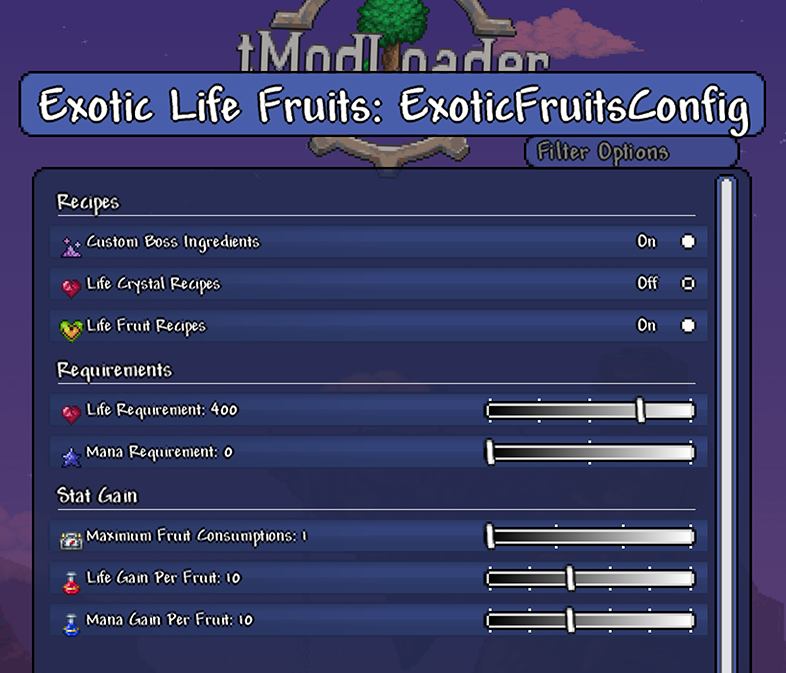
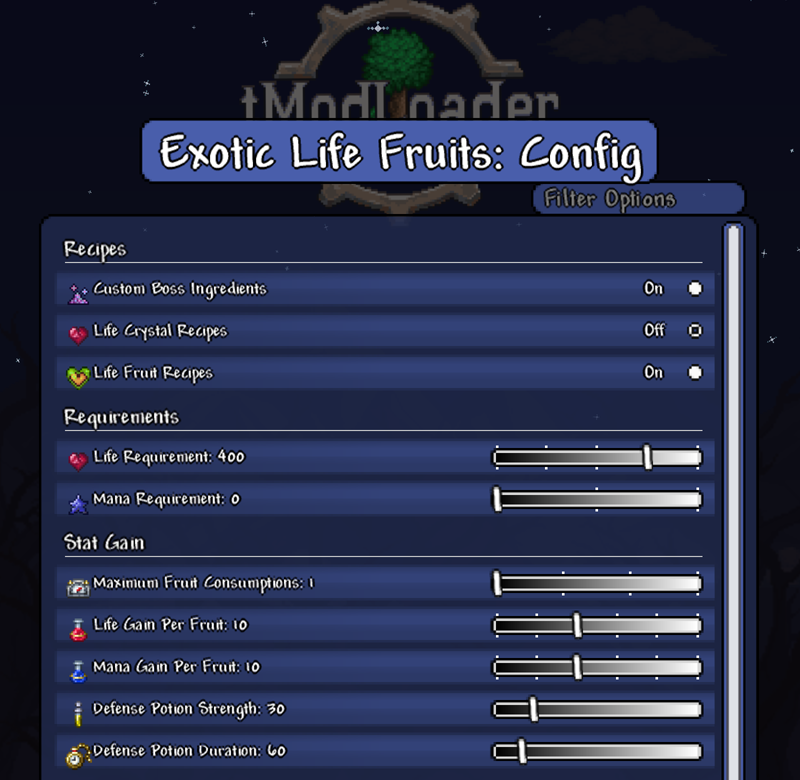
added readme

diff --git a/Items/ExoticFruitsDefensePotion.cs b/Items/ExoticFruitsDefensePotion.cs
@@ -36,6 +36,7 @@ namespace ExoticFruits.Items
                     .AddIngredient(ItemID.BottledWater, 5)
                     .AddIngredient(ItemID.CursedFlame)
                     .AddIngredient(ItemID.AsphaltBlock)
+                    .AddTile(TileID.AlchemyTable)
                     .Register();
         }
     }

diff --git a/README.md b/README.md
@@ -1,0 +1,73 @@
+# Exotic Fruits
+
+<img src="/pics/main.png">
+Adds 10 unique fruits. Each one increases your maximum life and mana by 10. They increase the maximum permanent life and mana to 600 and 300. There's also an 11th extra delicious fruit.
+After consuming the 11th fruit, you may craft it again to make the Exoskin potion. It increases defense by 30 (configurable).
+
+|
+
+The mod is very configurable in the mod config!
+
+All default recepies are as follows: An ingredient dropped by each boss  + <img src="https://terraria.wiki.gg/images/9/9f/Life_Fruit.png" width="16">  + <img src="https://terraria.wiki.gg/images/7/79/Mana_Crystal.png" width="16">
+
+## Fruits
+
+<img src="/Items/ExoticFruits0.png" width="32"> **Carambola** : Main ingredient <img src="https://terraria.wiki.gg/images/3/38/Sparkle_Slime_Balloon.png" width="16"> dropped by Queen Slime.
+
+<img src="/Items/ExoticFruits1.png" width="32"> **Cherimoya** : Main ingredient <img src="https://terraria.wiki.gg/images/9/98/Soul_of_Sight.gif" width="16"> dropped by The Twins.
+
+<img src="/Items/ExoticFruits2.png" width="32"> **Acai** : Main ingredient <img src="https://terraria.wiki.gg/images/4/44/Soul_of_Might.gif" width="16"> dropped by The Destroyer.
+
+<img src="/Items/ExoticFruits3.png" width="32"> **Jujube** : Main ingredient <img src="https://terraria.wiki.gg/images/a/ad/Soul_of_Fright.gif" width="16"> dropped by Skeletop Prime.
+
+<img src="/Items/ExoticFruits4.png" width="32"> **Pitaya** : Main ingredient <img src="/Items/ExoticFruitsShard0.png" width="24"> dropped by Plantera.
+
+<img src="/Items/ExoticFruits5.png" width="32"> **Durian** : Main ingredient <img src = "https://terraria.wiki.gg/images/c/cb/Beetle_Husk.png" width="16"> dropped by The Golem.
+
+<img src="/Items/ExoticFruits6.png" width="32"> **Loquat** : Main ingredient <img src="/Items/ExoticFruitsShard1.png" width="24"> dropped by Empress Of Light.
+
+<img src="/Items/ExoticFruits7.png" width="32"> **Kiwano** : Main ingredient <img src="/Items/ExoticFruitsShard2.png" width="24"> dropped by Duke Fishron.
+
+<img src="/Items/ExoticFruits8.png" width="32"> **Rambutan** : Main ingredient <img src="/Items/ExoticFruitsShard3.png" width="24"> dropped by Lunatic Cultist.
+
+<img src="/Items/ExoticFruits9.png" width="32"> **Mangosteen** : Main ingredient <img src="https://terraria.wiki.gg/images/6/60/Luminite_Bar.png" width="16"> dropped by Moon Lord.
+
+<img src="/Items/ExoticFruits10.png" width="32"> **Goyave Noire** : Recipe <img src="/Items/ExoticFruits9.png" width="16"> + <img src="https://terraria.wiki.gg/images/1/1c/Glowing_Mushroom.png" width="16"> + <img src="https://terraria.wiki.gg/images/3/3f/Gel.png" width="16">x2 + <img src="https://terraria.wiki.gg/images/9/9f/Life_Fruit.png" width="16">x4  + <img src="https://terraria.wiki.gg/images/7/79/Mana_Crystal.png" width="16">x4 + <img src="https://terraria.wiki.gg/images/6/65/Pixie_Dust.png" width="16">x3
+
+## Potion
+
+<img src="/Items/ExoticFruitsDefensePotion.png" width="32"> **Exoskin Potion** x10 : Recipe <img src="/Items/ExoticFruits10.png" width="16"> + <img src="https://terraria.wiki.gg/images/9/9f/Ironskin_Potion.png" height="24">x5 + <img src="https://terraria.wiki.gg/images/1/16/Bottled_Water.png" width="16">x5 + <img src="https://terraria.wiki.gg/images/1/19/Cursed_Flame.png" width="16"> + <img src="https://terraria.wiki.gg/images/7/77/Asphalt_Block.png" width="16">
+
+## Mod Configuration
+
+<img src="/pics/config.png">
+
+**Custom Boss Ingredients**
+: Bosses that don't drop crafting ingredients will now do so, for the fruits. Disabling this will force the player to use non-ingredient drops (weapons, temple key, ancient manipulator) from those bosses to make the fruits.
+
+**Life Crystal Recipes**
+: Enable recipes with Life Crystals
+
+**Life Fruit Recipes**
+: Enable recipes with Life Fruits
+
+**Life Requirement**
+: Maximum Life Required To Consume Fruits
+
+
+**Mana Requirement**
+: Maximum Mana Required To Consume Fruits
+
+**Maximum Fruit Consumptions**
+: How many times can the same fruit be consumed
+
+**Life Gain Per Fruit**
+
+
+**Mana Gain Per Fruit**
+
+
+**Defense Potion Strength**
+
+
+**Defense Potion Duration**
